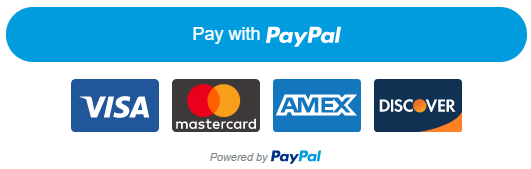
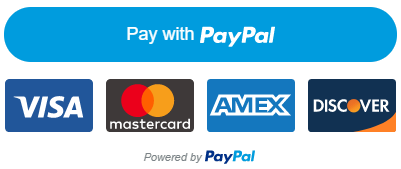
centered PayPal demo image and resized the image file

diff --git a/content/dues.md b/content/dues.md
@@ -9,5 +9,12 @@ Annual dues of $200 can be paid by check, made payable to Kathy Kammer at 106 Co
 
 Ensure your donation is properly credited by checking the PayPal option to "Share your mailing address with Woodbrook Civic Association".
 
-![PayPal Link](/img/paypay_sample.png)
-        
+{{< raw_html >}}
+    <div style="display:flex;justify-content:center;align-items:center;">
+        <img src="/img/paypay_sample.png" alt="PayPal Link">
+    </div>
+<br>
+{{< /raw_html >}}
+
+<!-- following is Hugo markdown to show the image, however, centering the image with markdown wasn't apparent
+<!-- ![PayPal Link](/img/paypay_sample.png) -->
